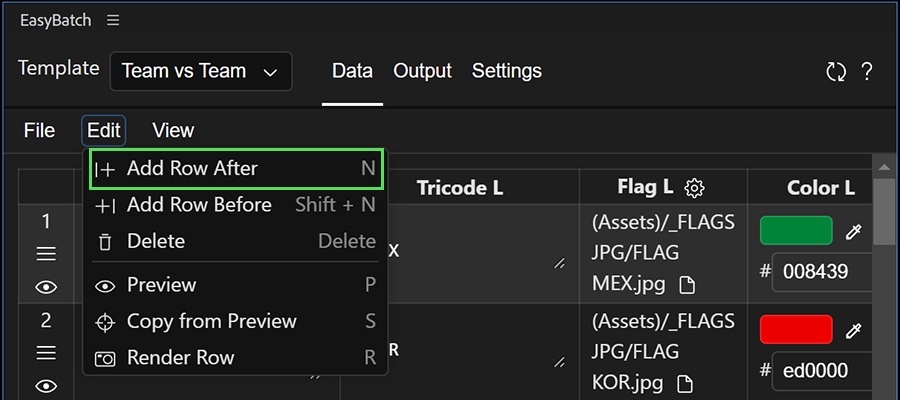
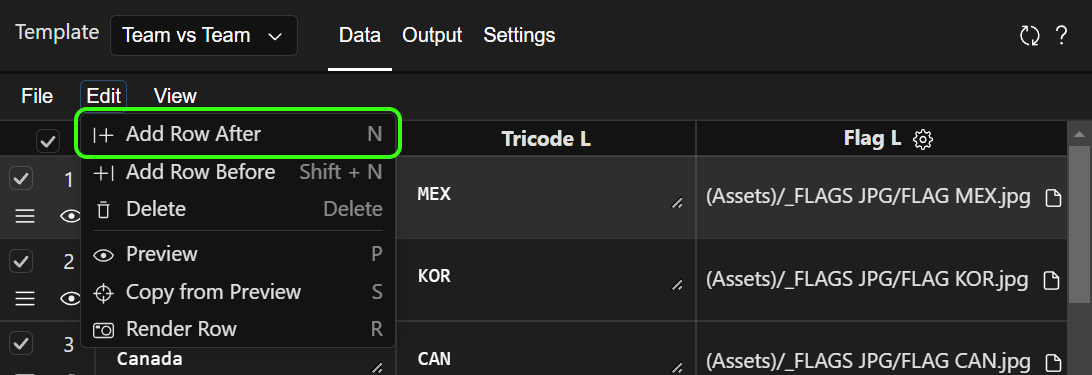
Fixed bug for testing. -Deletes old unused tests -Updates screnshots for docs

diff --git a/tests/helpers/cef-helpers.ts b/tests/helpers/cef-helpers.ts
@@ -20,18 +20,31 @@ export class CEFConnection {
   private readonly debugPort: number;
   private readonly pageSelectors: string[];
 
+  private connecting: Promise<void> | null = null;
+
   constructor(debugPort: number = 8009, pageSelectors: string[] = ['index.html', 'dev.html', 'localhost:5173']) {
     this.debugPort = debugPort;
     this.pageSelectors = pageSelectors;
 
-    this.Connect();
+    this.Connect().catch(() => { /* surfaced again when a test awaits GetConnection() */ });
   }
 
   /**
-   * Connect to the CEF instance being used by AE using Puppeteer
-   * Returns the browser and page, reusing existing connection if available
+   * Connect to the CEF instance being used by AE using Puppeteer.
+   * Concurrent calls share one connection: a second Puppeteer connection would produce another
+   * Page object for the same tab, and element handles can't be used across Page objects.
    */
-  async Connect() {
+  Connect(): Promise<void> {
+    if (!this.connecting) {
+      this.connecting = this.DoConnect().catch((error) => {
+        this.connecting = null;
+        throw error;
+      });
+    }
+    return this.connecting;
+  }
+
+  private async DoConnect() {
     try {
       // Connect to CEF via browserURL (Puppeteer feature)
       this.browser = await puppeteer.connect({
@@ -84,6 +97,7 @@ export class CEFConnection {
       }
       this.browser = null;
       this.page = null;
+      this.connecting = null;
     }
   }
 
